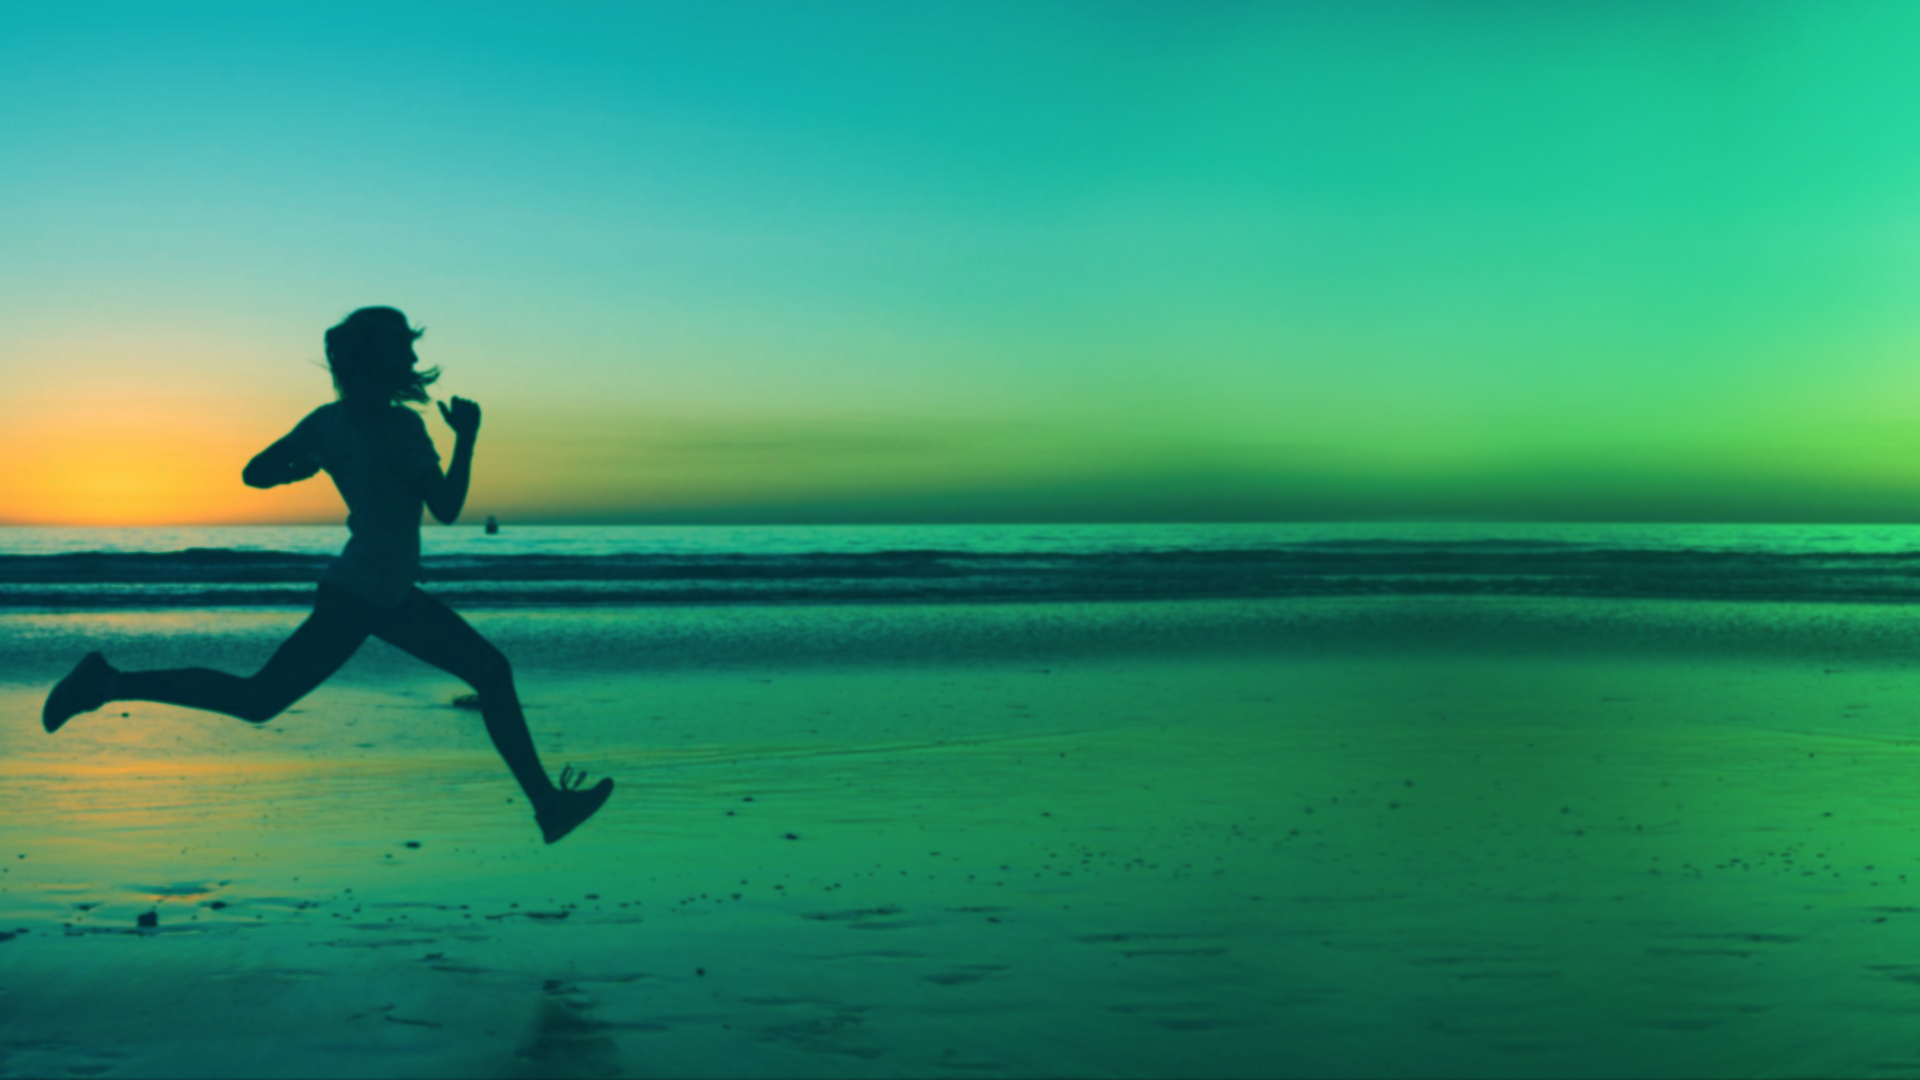
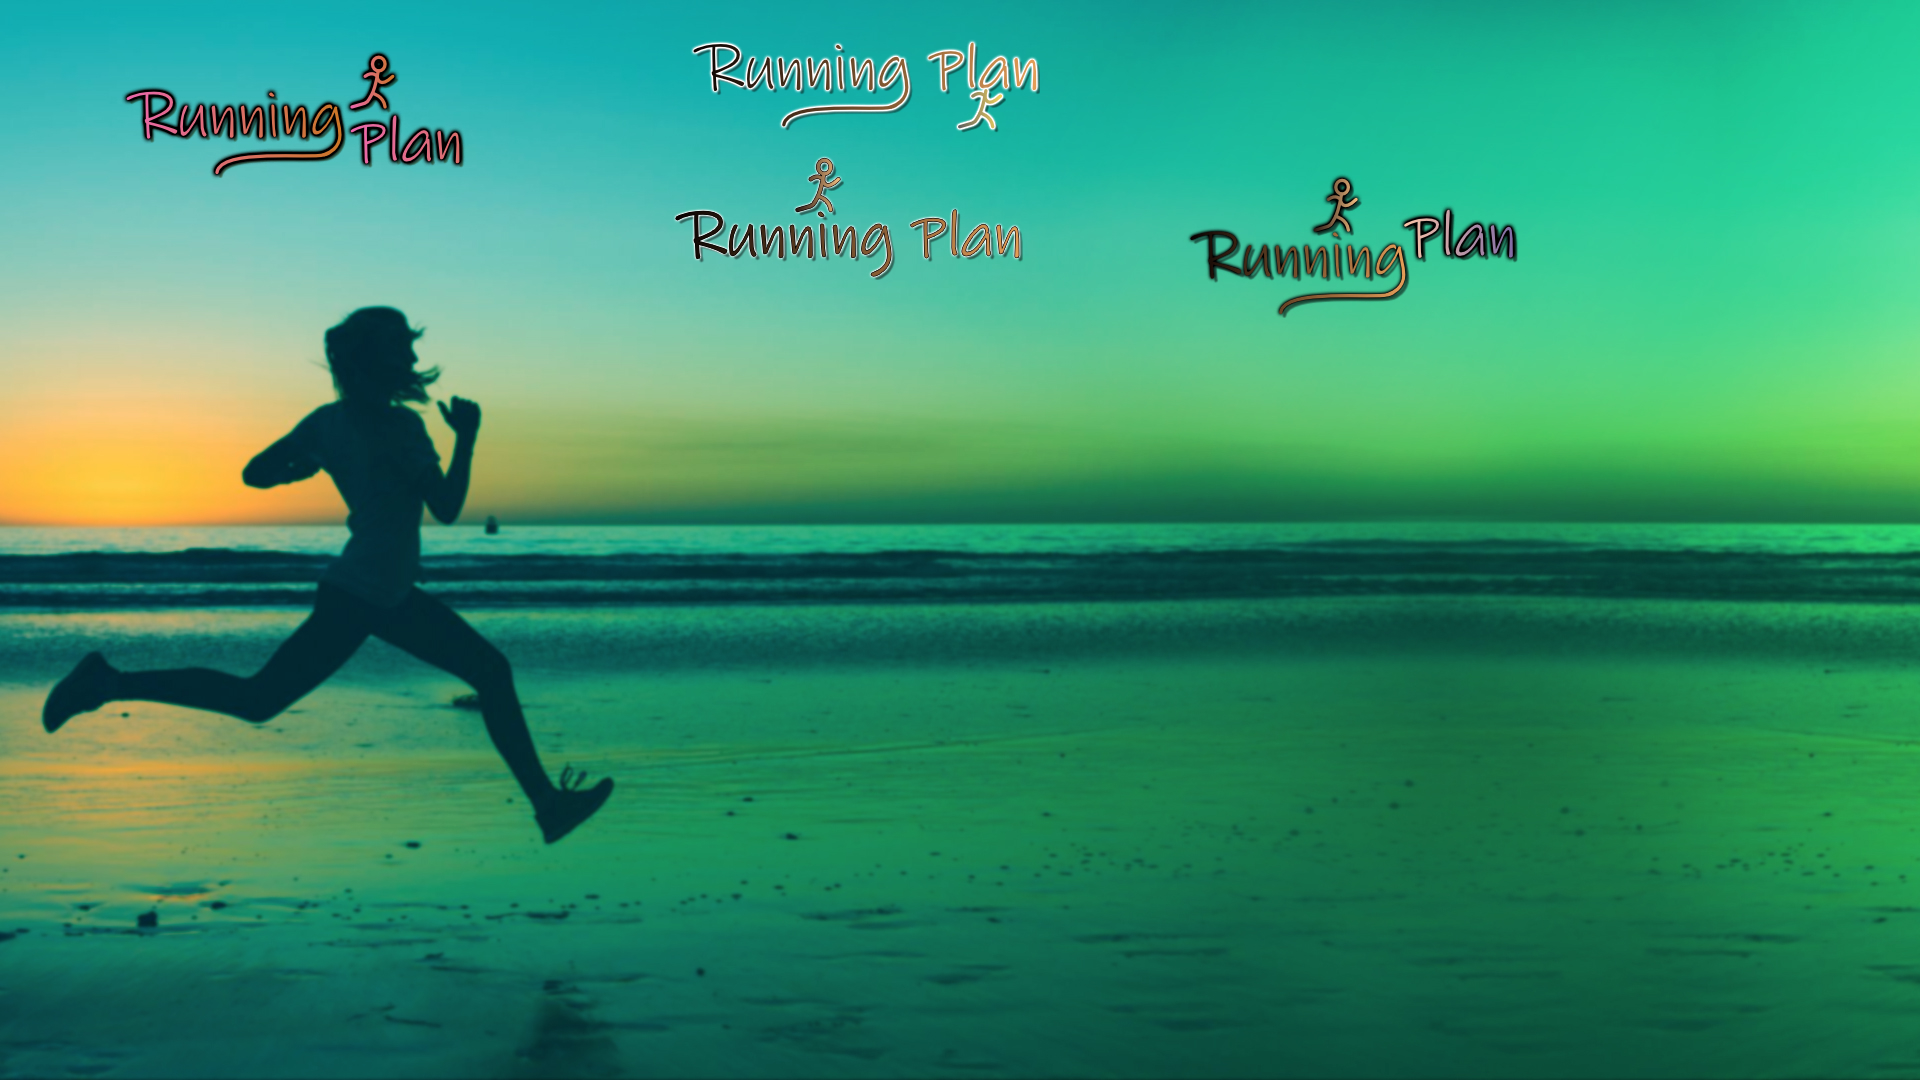
title main added

diff --git a/svelte/src/lib/Table.svelte b/svelte/src/lib/Table.svelte
@@ -2,7 +2,8 @@
   import Events from '../lib/Events.svelte'
 </script>
 
-<table class="table">
+
+<!-- <table class="table">
   <thead class="table__thead">
     <tr class="table__row">
       <td class="table__thead__td">Date</td>
@@ -13,29 +14,41 @@
   </thead>
 
   <tbody class="table__tbody">
-     <!-- <tr class="table__row" v-for="event in eventStore.events" :key="event.id">
-      <Events
-        classTd="table__tbody__td"
-        :date="event.date"
-        :time="event.time"
-        :trainingType="event.trainingType"
-        :weight="event.weight === '' ? '/' : event.weight + ' kg'"
-      >
-        <i @click="openModal(event)" class="table__tbody__icon fas fa-edit"></i>
-      </Events>
-    </tr>  -->
     <tr class="table__row">
       <Events />
     </tr> 
-
-    <!-- MODAL EDIT EVENT-->
   </tbody>
-</table>
+</table> -->
+<div class="container">
+  <p>divers icons ici</p>
+  <table class="table">
+    <thead class="table__thead">
+      <tr class="table__row">
+        <td class="table__thead__td">Date</td>
+        <td class="table__thead__td">Temps</td>
+        <td class="table__thead__td">Type d'entrainements</td>
+        <td class="table__thead__td">Poids</td>
+      </tr>
+    </thead>
+  
+    <tbody class="table__tbody">
+      <tr class="table__row">
+        <Events />
+      </tr> 
+  
+      <!-- MODAL EDIT EVENT-->
+    </tbody>
+  </table>
+</div>
 
 <style>
-  .table {
+  .container {
+    margin-top: 5rem; 
     width: 90%;
-    margin-top: 5rem;
+  }
+
+  .table {
+    width: 100%;
     height: -webkit-min-content;
     height: -moz-min-content;
     height: min-content;
@@ -104,4 +117,5 @@
     -webkit-animation: 0.2s ease slideModalUp;
     animation: 0.2s ease slideModalUp;
   } */
+
 </style>

diff --git a/svelte/src/App.svelte b/svelte/src/App.svelte
@@ -5,10 +5,15 @@
   import url from './stores/url';
 </script>
 
+
+<h1 class="title_main">Running Plan</h1>
+
 <main id="main">
   <RouterView />
 
-  <Router>
+  
+
+  <!-- <Router>
     {#if $url.pathname == "/login"}
       <a href="/signup" use:link>
         <button class="switch-form">S'inscrire</button>
@@ -19,6 +24,22 @@
       </a>
     {:else}
       <span></span>
+    {/if}
+  </Router> -->
+  
+  <Router>
+    {#if $url.pathname == "/login"}
+      
+      <a href="/signup" use:link>
+        <button class="switch-form">S'inscrire</button>
+      </a>
+
+    {:else if $url.pathname == "/signup"}
+
+      <a href="/login" use:link>
+        <button class="switch-form">Se connecter</button>
+      </a>
+
     {/if}
   </Router>
 
@@ -54,6 +75,17 @@
   
   .switch-form:hover {
     background: rgba(169, 227, 230, 0.205);
+  }
+
+  .title_main {
+    position: absolute;
+    left: 140px;
+    font-family: 'Gruppo', cursive;
+    background: rgb(34,43,35);
+    background: linear-gradient(103deg, rgba(34,43,35,1) 0%, rgba(251,185,152,1) 99%); 
+    background-clip: text;
+    -webkit-background-clip: text;
+    color: transparent;
   }
 
 </style>

diff --git a/svelte/src/lib/Events.svelte b/svelte/src/lib/Events.svelte
@@ -10,23 +10,23 @@
   let events = [];
 
   const getEvents = () => {
-    axios.get('http://localhost:5000/events')
+    axios.get('https://running-plan-strapi.herokuapp.com/api/events')
       .then(({ data }) => {
-        console.log(data);
-        events = events.concat(data);
+        console.log(data.data);
+        events = events.concat(data.data);
       })
       .catch(err => console.log(err))
   }
 
-  onMount(getEvents)
+  // onMount(getEvents)
 
 </script>
 
 {#each events as event}
-  <td class="classTd">{ event.date }</td>
-  <td class="classTd">{ event.time }</td>
-  <td class="classTd">{ event.trainingType }</td>
-  <td class="classTd">{ event.weight === '' ? '/' : event.weight + ' kg' }</td>
+  <td class="classTd">{ event.attributes.date }</td>
+  <td class="classTd">{ event.attributes.time }</td>
+  <td class="classTd">{ event.attributes.trainingType }</td>
+  <td class="classTd">{ event.attributes.weight === '' ? '/' : event.attributes.weight + ' kg' }</td>
   <span class="material-icons icon-edit-event">
     edit
   </span> 

diff --git a/svelte/index.html b/svelte/index.html
@@ -4,6 +4,9 @@
     <meta charset="UTF-8" />
     <link rel="icon" href="/favicon.ico" />
     <meta name="viewport" content="width=device-width, initial-scale=1.0" />
+    <link rel="preconnect" href="https://fonts.googleapis.com">
+    <link rel="preconnect" href="https://fonts.gstatic.com" crossorigin>
+    <link href="https://fonts.googleapis.com/css2?family=Gruppo&display=swap" rel="stylesheet">
     <title>Svelte + Vite App</title>
   </head>
   <style>

diff --git a/svelte/src/pages/Dashboard.svelte b/svelte/src/pages/Dashboard.svelte
@@ -23,8 +23,8 @@
     /* -moz-transition: .7s cubic-bezier(.45,.67,.9,.73);
     -webkit-transition: .7s cubic-bezier(.45,.67,.9,.73);
     transition: .7s cubic-bezier(.45,.67,.9,.73); */
-    -webkit-transition: .7s ease;
     transition: .7s ease;
+    -webkit-transition: .7s ease;
     /* grid-template-columns: 500px 1fr;  */
   }
 
@@ -43,4 +43,5 @@
     display: flex;
     justify-content: center;
   }
+
 </style>

diff --git a/svelte/src/assets/scss/Dashboard/index.css b/svelte/src/assets/scss/Dashboard/index.css
@@ -3,7 +3,8 @@ aside {
   background: rgba(255, 255, 255, 0.3);
   border-top-right-radius: 20px;
   border-bottom-right-radius: 20px;
+  backdrop-filter: blur(30px);
   -webkit-backdrop-filter: blur(30px);
-          backdrop-filter: blur(30px);
+  margin-top: 5rem;
 }
 /*# sourceMappingURL=index.css.map */

diff --git a/svelte/src/assets/scss/Dashboard/index.sass b/svelte/src/assets/scss/Dashboard/index.sass
@@ -4,4 +4,5 @@ aside
   border-top-right-radius: 20px
   border-bottom-right-radius: 20px
   backdrop-filter: blur(30px)
+  margin-top: 5rem
   
